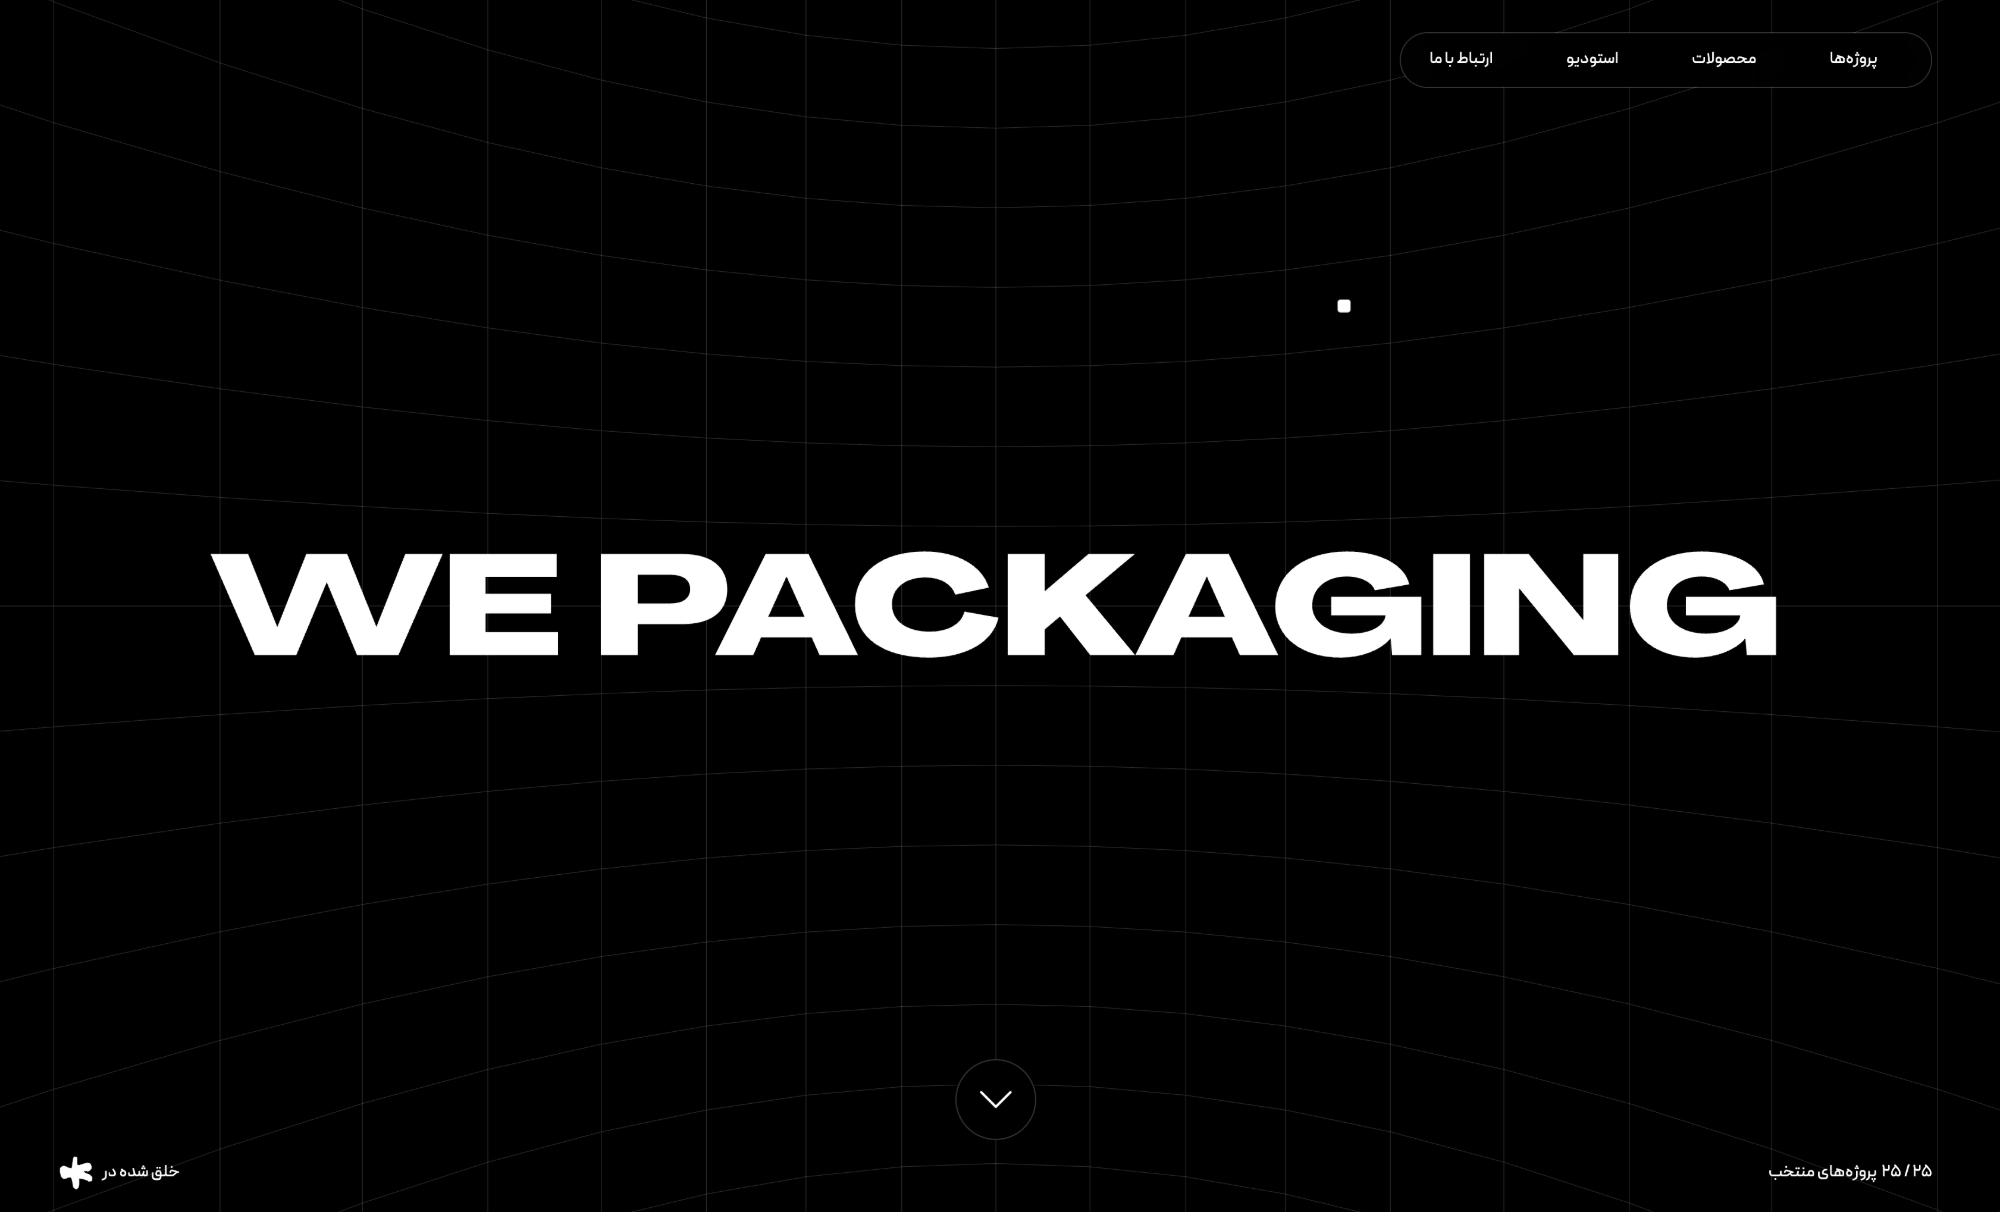
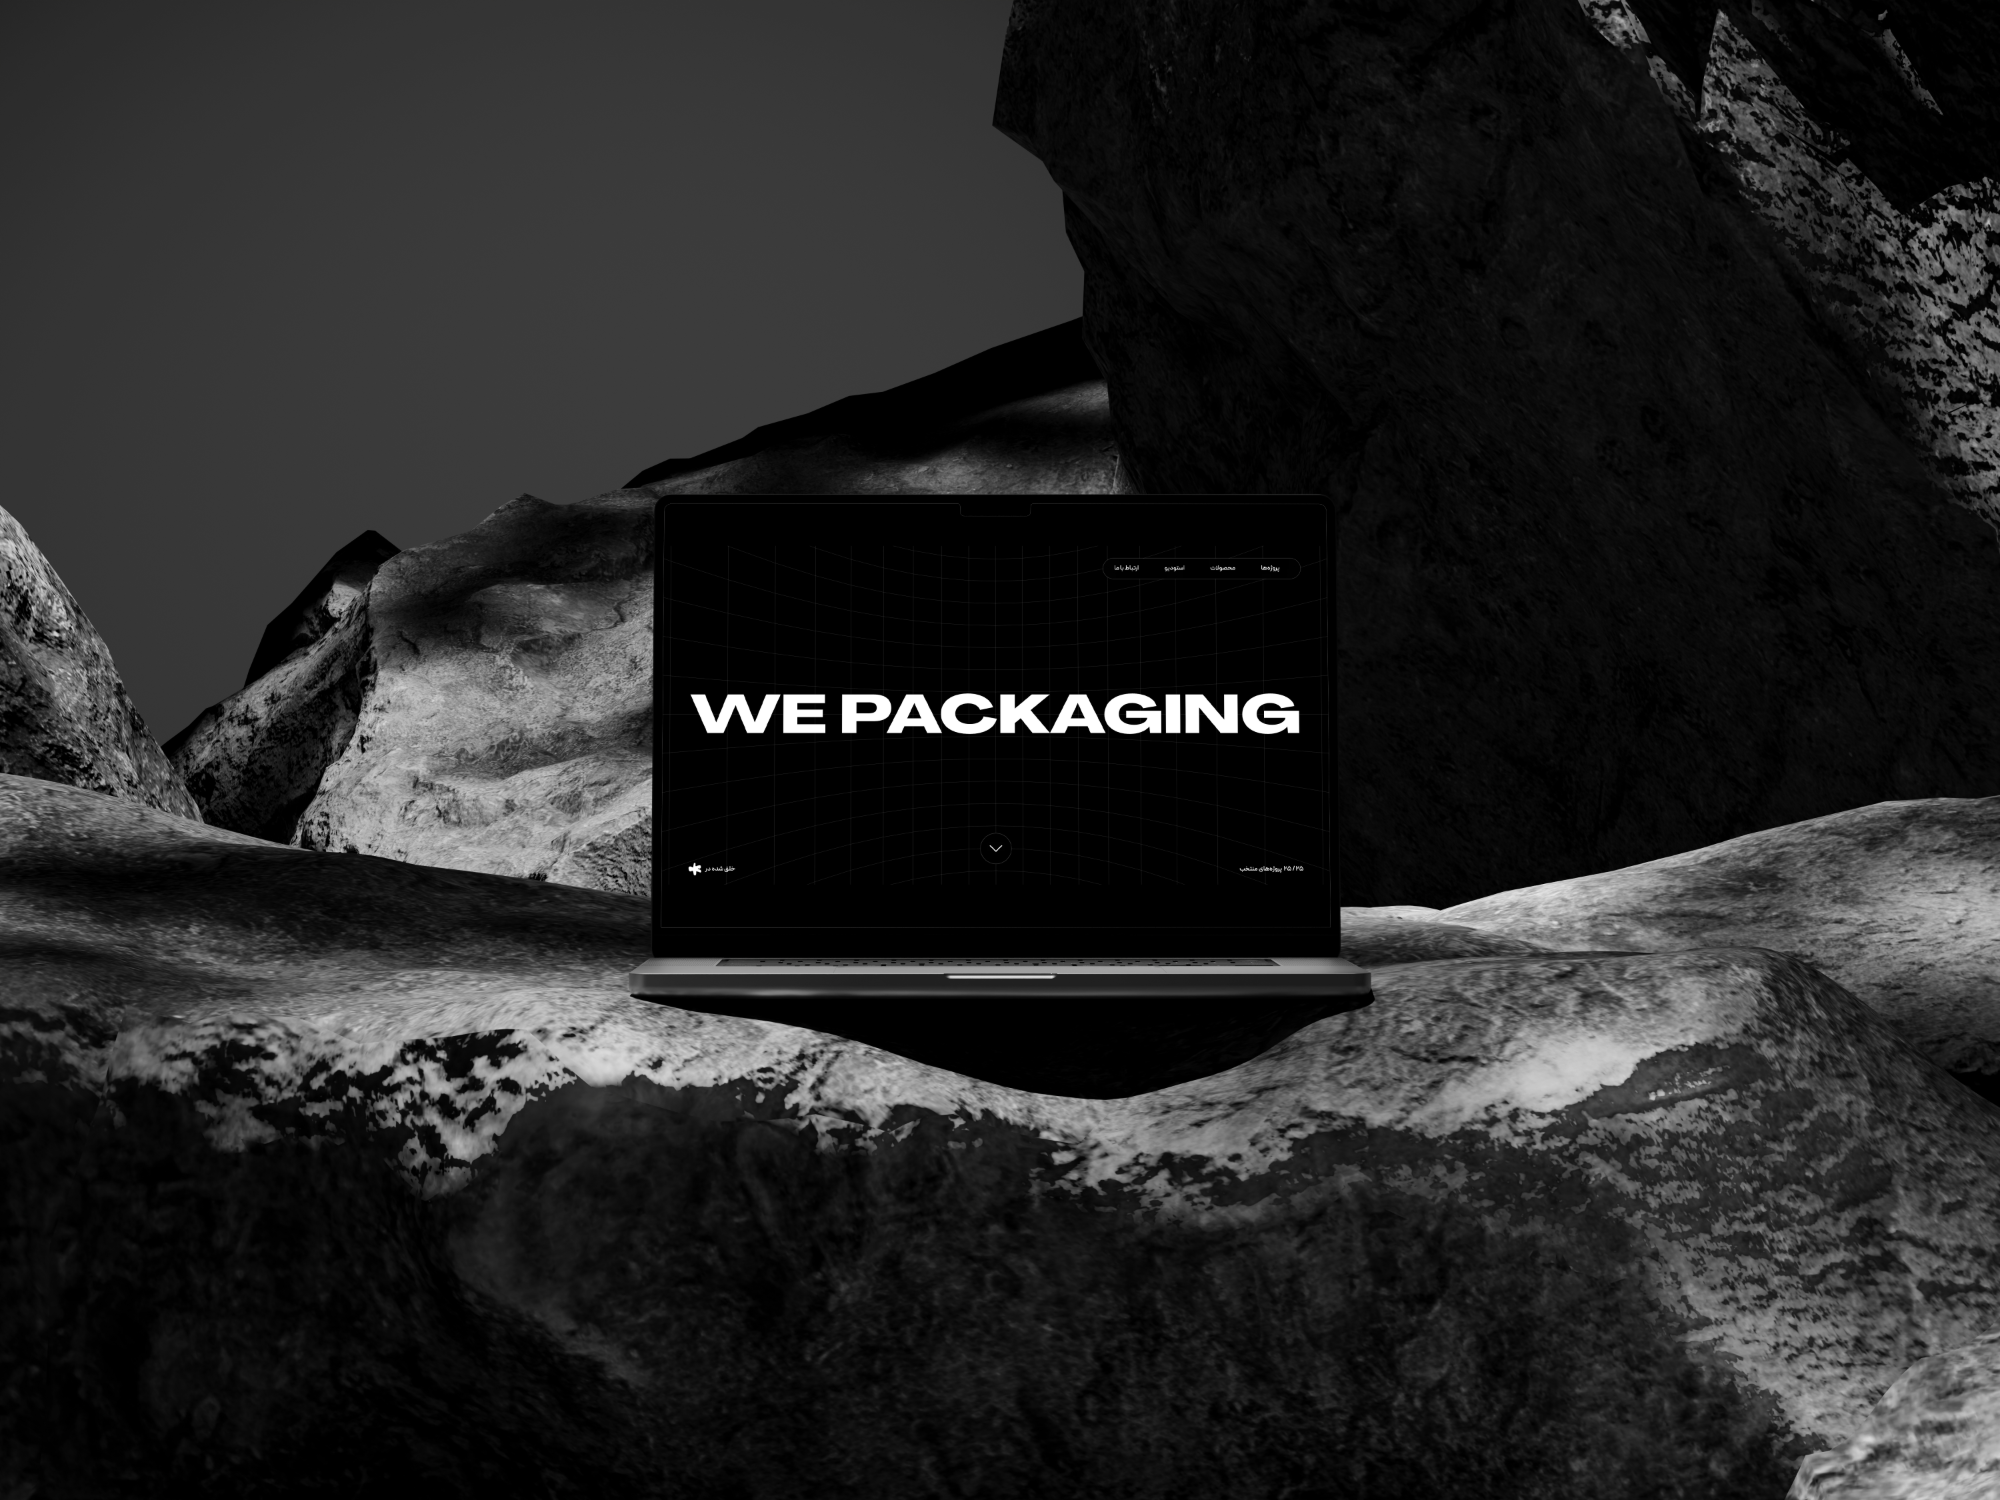
Update WePackaging imagery and simplify About credits

diff --git a/app/globals.css b/app/globals.css
@@ -128,7 +128,6 @@ a,button { -webkit-tap-highlight-color: transparent; }
 .service-copy { position: relative; padding-left: 6vw; max-width: 34vw; text-indent: 2vw; }
 .service-copy > span { position: absolute; top: 0; left: 0; text-indent: 0; font-size: 1vw; }
 .muted { color: #666; }
-.about-info .reference-credit { font-size: var(--small); margin-top: -1.8vw; }
 .about-contact { font-size: 3vw; }
 .project-page { display: grid; grid-template-columns: 43vw minmax(0,1fr); align-items: start; }
 .project-info { position: sticky; top: var(--header-height); min-height: calc(100dvh - var(--header-height)); padding: 0 2.5vw 2vw; display: flex; flex-direction: column; justify-content: space-between; gap: 5vw; }
@@ -256,7 +255,6 @@ a,button { -webkit-tap-highlight-color: transparent; }
   .skill-group { grid-template-columns: 1fr; gap: .75rem; }
   .service-copy { max-width: none; padding-left: 15vw; text-indent: 5vw; }
   .service-copy > span { font-size: 3vw; }
-  .about-info .reference-credit { font-size: 3.2vw; margin-top: -4vw; }
   .about-contact { font-size: 9.7vw; margin-top: 7vw; }
   .project-page { display: flex; flex-direction: column; gap: 20vw; padding: 5vw 4vw 7vw; }
   .project-info { position: relative; top: auto; min-height: 0; padding: 0; width: 100%; }

diff --git a/app/about/page.js b/app/about/page.js
@@ -26,7 +26,7 @@ export default function About() {
         </section>
         <div className="about-credits">
           <section className="about-info" data-reveal><h2>What’s next</h2><p>{profile.availability}</p></section>
-          <section className="about-info" data-reveal><h2>Credit</h2><p className="muted">Development<br />{profile.name} ©{new Date().getFullYear()}</p><p className="muted reference-credit">Visual reference: <a className="underline-link" href="https://matthieugivelet.com/" target="_blank" rel="noopener noreferrer">Matthieu Givelet ↗</a></p></section>
+          <section className="about-info" data-reveal><h2>Credit</h2><p className="muted">Development<br />{profile.name} ©{new Date().getFullYear()}</p></section>
           <section className="about-info" data-reveal><h2>Social</h2><div className="about-social"><a className="underline-link muted" href={profile.github} target="_blank" rel="noopener noreferrer">GitHub ↗</a><a className="underline-link muted" href={profile.linkedin} target="_blank" rel="noopener noreferrer">LinkedIn ↗</a></div></section>
           <ArrowLink className="about-contact" href={`mailto:${profile.email}`}>Get in touch</ArrowLink>
         </div>
